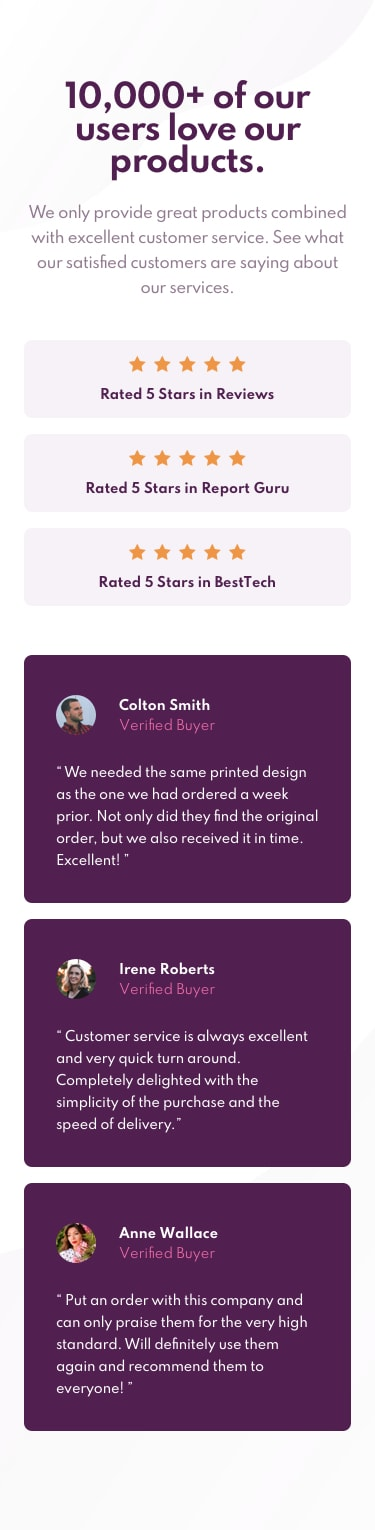
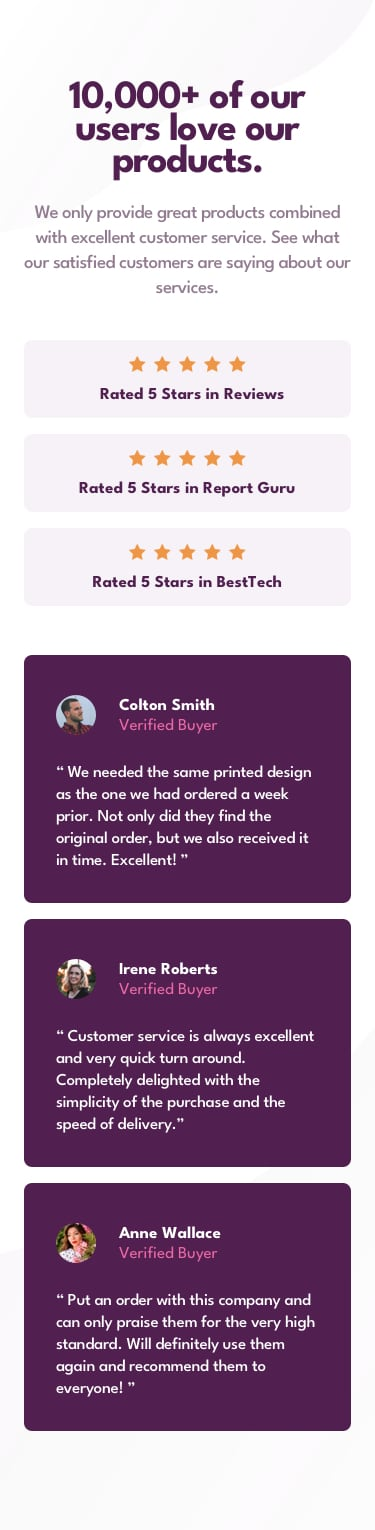
Switch to using the league spartan font again

diff --git a/index.html b/index.html
@@ -34,19 +34,19 @@
               <div class="review-stars">
                 <svg width="17" height="16" xmlns="http://www.w3.org/2000/svg"><path d="M16.539 6.097a.297.297 0 00-.24-.202l-5.36-.779L8.542.26a.296.296 0 00-.53 0L5.613 5.117l-5.36.779a.297.297 0 00-.165.505l3.88 3.78-.917 5.34a.297.297 0 00.43.312l4.795-2.52 4.794 2.52a.296.296 0 00.43-.313l-.916-5.338L16.464 6.4c.08-.08.11-.197.075-.304z" fill="#EF9546" fill-rule="nonzero"/></svg>&nbsp;<svg width="17" height="16" xmlns="http://www.w3.org/2000/svg"><path d="M16.539 6.097a.297.297 0 00-.24-.202l-5.36-.779L8.542.26a.296.296 0 00-.53 0L5.613 5.117l-5.36.779a.297.297 0 00-.165.505l3.88 3.78-.917 5.34a.297.297 0 00.43.312l4.795-2.52 4.794 2.52a.296.296 0 00.43-.313l-.916-5.338L16.464 6.4c.08-.08.11-.197.075-.304z" fill="#EF9546" fill-rule="nonzero"/></svg>&nbsp;<svg width="17" height="16" xmlns="http://www.w3.org/2000/svg"><path d="M16.539 6.097a.297.297 0 00-.24-.202l-5.36-.779L8.542.26a.296.296 0 00-.53 0L5.613 5.117l-5.36.779a.297.297 0 00-.165.505l3.88 3.78-.917 5.34a.297.297 0 00.43.312l4.795-2.52 4.794 2.52a.296.296 0 00.43-.313l-.916-5.338L16.464 6.4c.08-.08.11-.197.075-.304z" fill="#EF9546" fill-rule="nonzero"/></svg>&nbsp;<svg width="17" height="16" xmlns="http://www.w3.org/2000/svg"><path d="M16.539 6.097a.297.297 0 00-.24-.202l-5.36-.779L8.542.26a.296.296 0 00-.53 0L5.613 5.117l-5.36.779a.297.297 0 00-.165.505l3.88 3.78-.917 5.34a.297.297 0 00.43.312l4.795-2.52 4.794 2.52a.296.296 0 00.43-.313l-.916-5.338L16.464 6.4c.08-.08.11-.197.075-.304z" fill="#EF9546" fill-rule="nonzero"/></svg>&nbsp;<svg width="17" height="16" xmlns="http://www.w3.org/2000/svg"><path d="M16.539 6.097a.297.297 0 00-.24-.202l-5.36-.779L8.542.26a.296.296 0 00-.53 0L5.613 5.117l-5.36.779a.297.297 0 00-.165.505l3.88 3.78-.917 5.34a.297.297 0 00.43.312l4.795-2.52 4.794 2.52a.296.296 0 00.43-.313l-.916-5.338L16.464 6.4c.08-.08.11-.197.075-.304z" fill="#EF9546" fill-rule="nonzero"/></svg>
               </div>
-              <div>Rated 5 Stars in Reviews</div>
+              <p>Rated 5 Stars in Reviews</p>
             </li>
             <li>
               <div class="review-stars">
                 <svg width="17" height="16" xmlns="http://www.w3.org/2000/svg"><path d="M16.539 6.097a.297.297 0 00-.24-.202l-5.36-.779L8.542.26a.296.296 0 00-.53 0L5.613 5.117l-5.36.779a.297.297 0 00-.165.505l3.88 3.78-.917 5.34a.297.297 0 00.43.312l4.795-2.52 4.794 2.52a.296.296 0 00.43-.313l-.916-5.338L16.464 6.4c.08-.08.11-.197.075-.304z" fill="#EF9546" fill-rule="nonzero"/></svg>&nbsp;<svg width="17" height="16" xmlns="http://www.w3.org/2000/svg"><path d="M16.539 6.097a.297.297 0 00-.24-.202l-5.36-.779L8.542.26a.296.296 0 00-.53 0L5.613 5.117l-5.36.779a.297.297 0 00-.165.505l3.88 3.78-.917 5.34a.297.297 0 00.43.312l4.795-2.52 4.794 2.52a.296.296 0 00.43-.313l-.916-5.338L16.464 6.4c.08-.08.11-.197.075-.304z" fill="#EF9546" fill-rule="nonzero"/></svg>&nbsp;<svg width="17" height="16" xmlns="http://www.w3.org/2000/svg"><path d="M16.539 6.097a.297.297 0 00-.24-.202l-5.36-.779L8.542.26a.296.296 0 00-.53 0L5.613 5.117l-5.36.779a.297.297 0 00-.165.505l3.88 3.78-.917 5.34a.297.297 0 00.43.312l4.795-2.52 4.794 2.52a.296.296 0 00.43-.313l-.916-5.338L16.464 6.4c.08-.08.11-.197.075-.304z" fill="#EF9546" fill-rule="nonzero"/></svg>&nbsp;<svg width="17" height="16" xmlns="http://www.w3.org/2000/svg"><path d="M16.539 6.097a.297.297 0 00-.24-.202l-5.36-.779L8.542.26a.296.296 0 00-.53 0L5.613 5.117l-5.36.779a.297.297 0 00-.165.505l3.88 3.78-.917 5.34a.297.297 0 00.43.312l4.795-2.52 4.794 2.52a.296.296 0 00.43-.313l-.916-5.338L16.464 6.4c.08-.08.11-.197.075-.304z" fill="#EF9546" fill-rule="nonzero"/></svg>&nbsp;<svg width="17" height="16" xmlns="http://www.w3.org/2000/svg"><path d="M16.539 6.097a.297.297 0 00-.24-.202l-5.36-.779L8.542.26a.296.296 0 00-.53 0L5.613 5.117l-5.36.779a.297.297 0 00-.165.505l3.88 3.78-.917 5.34a.297.297 0 00.43.312l4.795-2.52 4.794 2.52a.296.296 0 00.43-.313l-.916-5.338L16.464 6.4c.08-.08.11-.197.075-.304z" fill="#EF9546" fill-rule="nonzero"/></svg>
               </div>
-              <div>Rated 5 Stars in Report Guru</div>
+              <p>Rated 5 Stars in Report Guru</p>
             </li>
             <li>
               <div class="review-stars">
                 <svg width="17" height="16" xmlns="http://www.w3.org/2000/svg"><path d="M16.539 6.097a.297.297 0 00-.24-.202l-5.36-.779L8.542.26a.296.296 0 00-.53 0L5.613 5.117l-5.36.779a.297.297 0 00-.165.505l3.88 3.78-.917 5.34a.297.297 0 00.43.312l4.795-2.52 4.794 2.52a.296.296 0 00.43-.313l-.916-5.338L16.464 6.4c.08-.08.11-.197.075-.304z" fill="#EF9546" fill-rule="nonzero"/></svg>&nbsp;<svg width="17" height="16" xmlns="http://www.w3.org/2000/svg"><path d="M16.539 6.097a.297.297 0 00-.24-.202l-5.36-.779L8.542.26a.296.296 0 00-.53 0L5.613 5.117l-5.36.779a.297.297 0 00-.165.505l3.88 3.78-.917 5.34a.297.297 0 00.43.312l4.795-2.52 4.794 2.52a.296.296 0 00.43-.313l-.916-5.338L16.464 6.4c.08-.08.11-.197.075-.304z" fill="#EF9546" fill-rule="nonzero"/></svg>&nbsp;<svg width="17" height="16" xmlns="http://www.w3.org/2000/svg"><path d="M16.539 6.097a.297.297 0 00-.24-.202l-5.36-.779L8.542.26a.296.296 0 00-.53 0L5.613 5.117l-5.36.779a.297.297 0 00-.165.505l3.88 3.78-.917 5.34a.297.297 0 00.43.312l4.795-2.52 4.794 2.52a.296.296 0 00.43-.313l-.916-5.338L16.464 6.4c.08-.08.11-.197.075-.304z" fill="#EF9546" fill-rule="nonzero"/></svg>&nbsp;<svg width="17" height="16" xmlns="http://www.w3.org/2000/svg"><path d="M16.539 6.097a.297.297 0 00-.24-.202l-5.36-.779L8.542.26a.296.296 0 00-.53 0L5.613 5.117l-5.36.779a.297.297 0 00-.165.505l3.88 3.78-.917 5.34a.297.297 0 00.43.312l4.795-2.52 4.794 2.52a.296.296 0 00.43-.313l-.916-5.338L16.464 6.4c.08-.08.11-.197.075-.304z" fill="#EF9546" fill-rule="nonzero"/></svg>&nbsp;<svg width="17" height="16" xmlns="http://www.w3.org/2000/svg"><path d="M16.539 6.097a.297.297 0 00-.24-.202l-5.36-.779L8.542.26a.296.296 0 00-.53 0L5.613 5.117l-5.36.779a.297.297 0 00-.165.505l3.88 3.78-.917 5.34a.297.297 0 00.43.312l4.795-2.52 4.794 2.52a.296.296 0 00.43-.313l-.916-5.338L16.464 6.4c.08-.08.11-.197.075-.304z" fill="#EF9546" fill-rule="nonzero"/></svg>
               </div>
-              <div>Rated 5 Stars in BestTech<div>
+              <p>Rated 5 Stars in BestTech</p>
             </li>
           </ul>
         </div>

diff --git a/styles.css b/styles.css
@@ -1,22 +1,5 @@
+@import url('https://fonts.googleapis.com/css2?family=League+Spartan:wght@400;500;700&display=swap');
 @import url('normalize.css');
-
-@font-face {
-  font-family: "Spartan";
-  font-weight: 400;
-  src: url("./fonts/SpartanMB-Regular.otf") format("opentype");
-}
-
-@font-face {
-  font-family: "Spartan";
-  font-weight: 500;
-  src: url("./fonts/SpartanMB-Medium.otf") format("opentype");
-}
-
-@font-face {
-  font-family: "Spartan";
-  font-weight: 700;
-  src: url("./fonts/SpartanMB-Bold.otf") format("opentype");
-}
 
 :root {
     --very-dark-magenta: hsl(300, 43%, 22%);
@@ -34,7 +17,7 @@
 }
 
 body {
-    font-family: 'Spartan', sans-serif;
+    font-family: 'League Spartan', sans-serif;
     font-size: 1rem;
     font-weight: 400;
     line-height: 1.7;
@@ -70,17 +53,17 @@ p {
 }
 
 .page-title {
-    font-size: 2.25rem;
-    line-height: 0.925;
+    font-size: 2.5rem;
+    line-height: 0.8;
     letter-spacing: -0.02em;
     margin: 0 0 1.375rem;
     color: var(--very-dark-magenta);
 }
 
 .page-text {
-    font-size: 1rem;
-    line-height: 1.6;
-    letter-spacing: 0.02em;
+    font-size: 1.125rem;
+    line-height: 1.4;
+    letter-spacing: 0;
     max-width: 327px;
     margin: 0 auto 2.375rem;
 }
@@ -92,11 +75,10 @@ p {
 }
 
 .reviews li {
-    font-size: 0.9375rem;
+    font-size: 1.0625rem;
     font-weight: 700;
-    line-height: 1.9;
     margin-bottom: 1rem;
-    padding: 0.5rem 1rem;
+    padding: 1rem 1rem 0.875rem;
     background-color: var(--light-grayish-magenta);
     color: var(--very-dark-magenta);
     border-radius: 0.625rem;
@@ -104,18 +86,27 @@ p {
 }
 
 .review-stars {
-    margin-bottom: 0.25rem;
+    line-height: 1;
+    margin-bottom: 0.875rem;
+    display: flex;
+    align-items: center;
+    justify-content: center;
 }
 
 .review-stars svg {
     display: inline-block;
     vertical-align: middle;
-    margin-right: 0.25rem;
+    margin-right: 0.2rem;
+}
+
+.reviews p {
+    margin-bottom: 0;
+    line-height: 1
 }
 
 .card {
     margin-bottom: 1rem;
-    padding: 2.5rem 1.625rem 2rem 2rem;
+    padding: 2.5rem 1.625rem 1.75rem 2rem;
     color: var(--light-grayish-magenta);
     background-color: var(--very-dark-magenta);
     border-radius: 0.625rem;
@@ -134,13 +125,14 @@ p {
 }
 
 .card-title {
-    font-size: 0.9375rem;
-    font-weight: 700;
+    font-size: 1.0625rem;
+    font-weight: 500;
+    line-height: 1.3;
     margin: 0;
 }
 
 .card-text {
-    font-size: 0.9375rem;
+    font-size: 1.0625rem;
     line-height: 1;
     color: var(--soft-pink);
     margin-bottom: 0;
@@ -152,10 +144,10 @@ p {
 }
 
 .card-quote p {
-    font-size: 0.9375rem;
-    line-height: 1.5;
+    font-size: 1rem;
+    line-height: 1.4;
+    letter-spacing: 0.02em;
     margin-bottom: 0;
-    opacity: 0.9;
 }
 
 .attribution {
@@ -221,10 +213,11 @@ p {
     }
 
     .page-title {
-        font-size: 3.25rem;
-        letter-spacing: 0;
-        margin-top: 3px;
-        margin-bottom: 0.75rem;
+        font-size: 3.5rem;
+        line-height: 0.86;
+        letter-spacing: -0.035em;
+        margin-top: -0.7rem;
+        margin-bottom: 1.625rem;
     }
 
     .page-text {
@@ -238,7 +231,7 @@ p {
     .reviews li {
         display: flex;
         align-items: center;
-        padding: 0.875rem 1rem 0.875rem 2rem;
+        padding: 1.25rem 1rem 1.1875rem 2rem;
         max-width: 445px;
     }
 
@@ -257,6 +250,7 @@ p {
 
     .card {
         padding-bottom: 2.25rem;
+        padding-right: 2rem;
     }
 
     .fade-1 {
